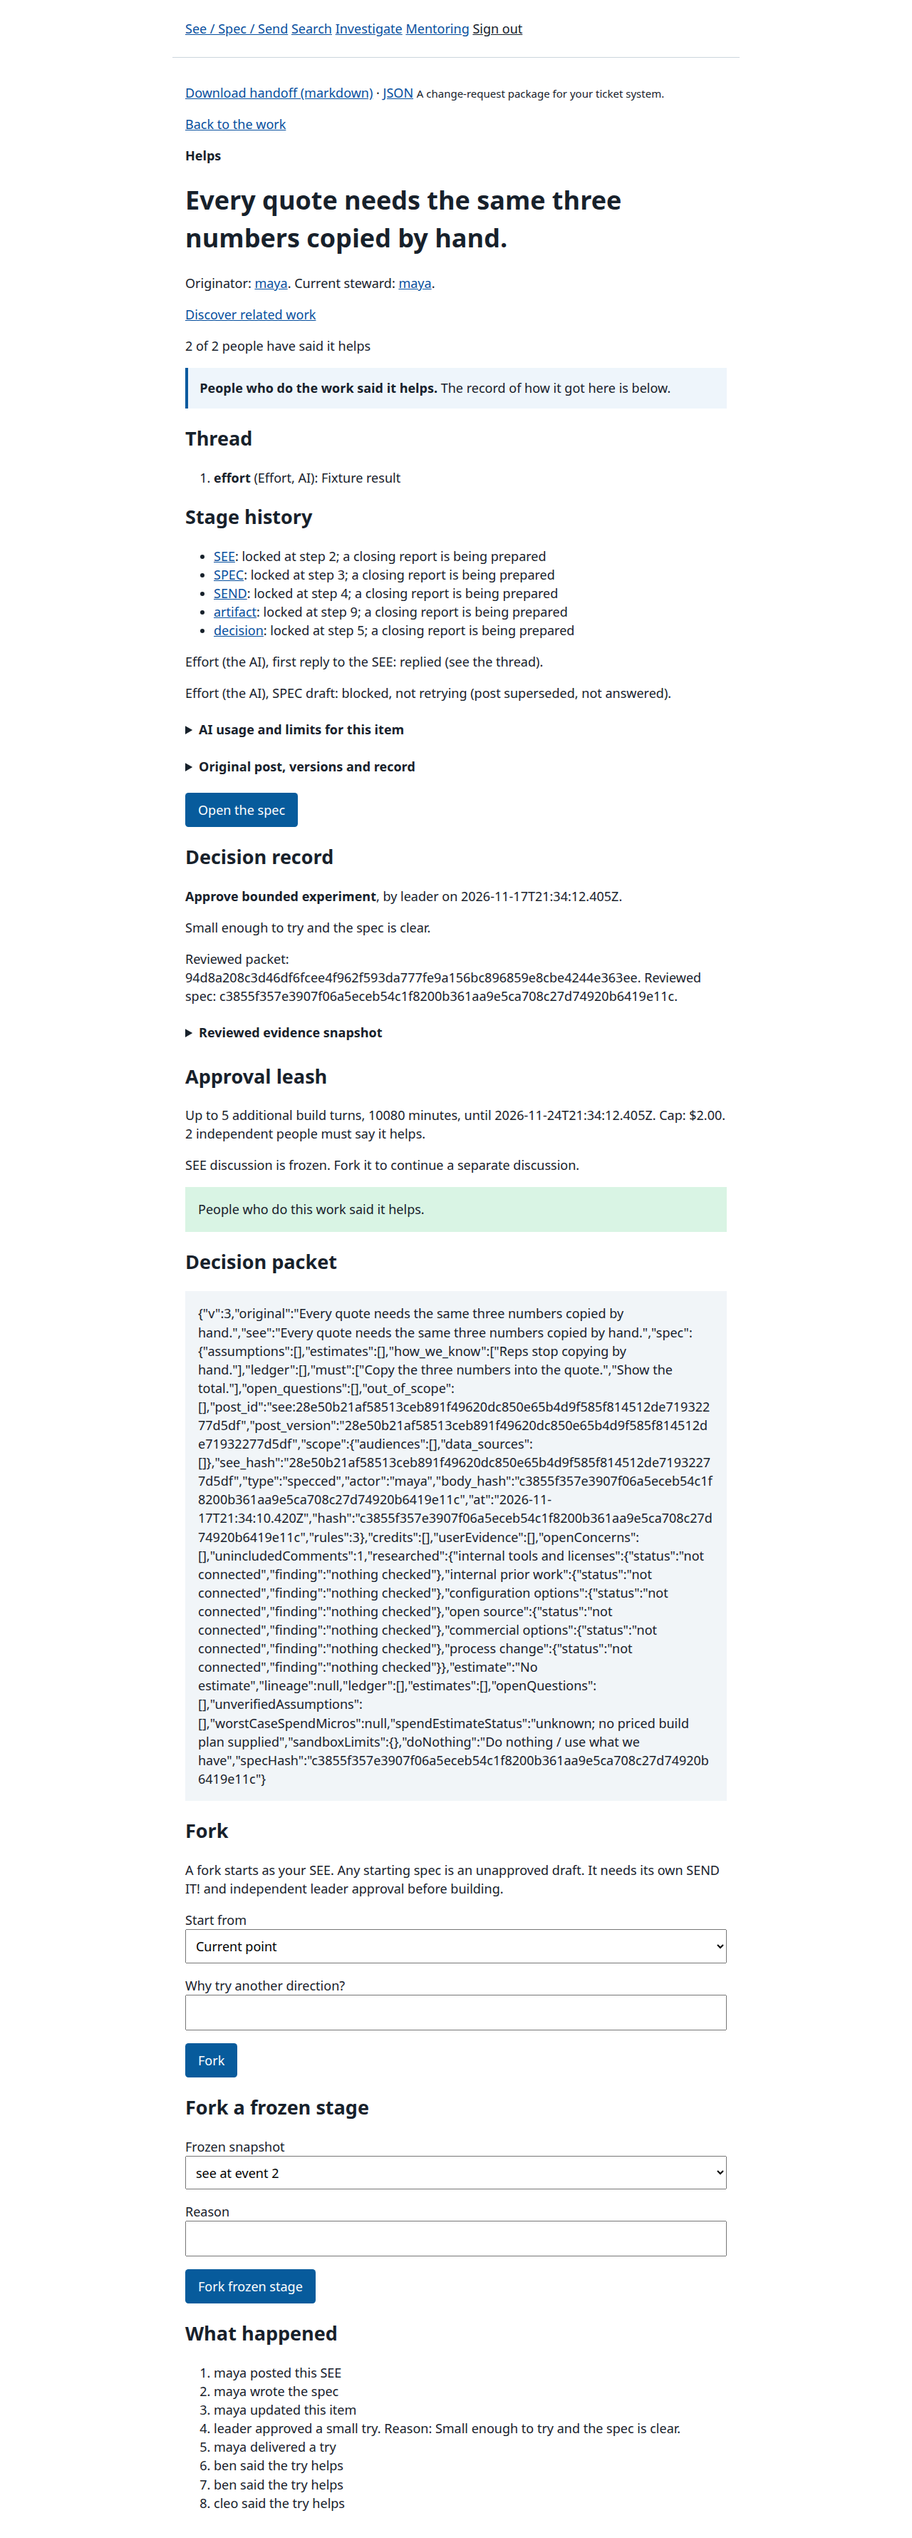
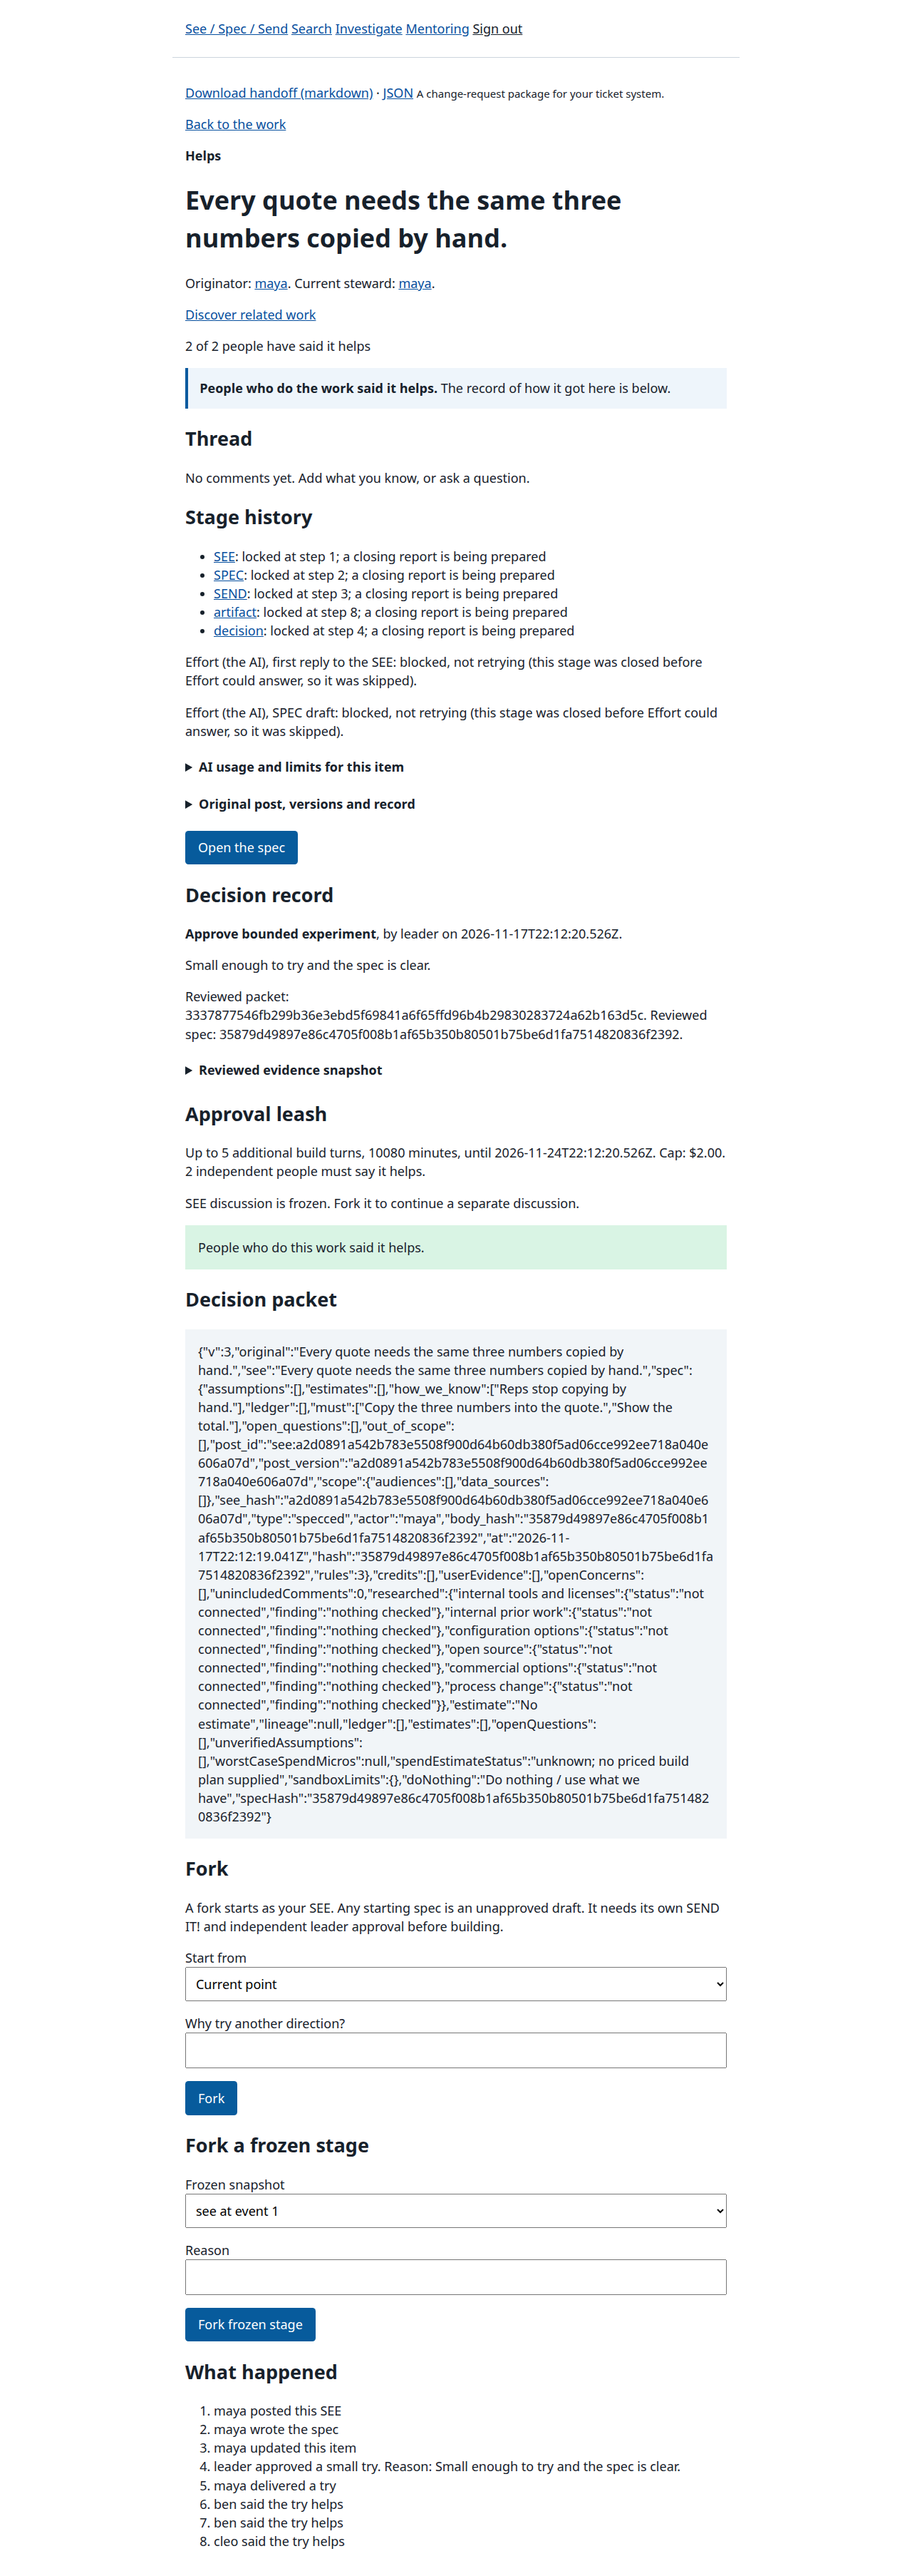
Second break pass: plain Vision Quest messages with no false not-saved alarm, the page says what a leader's decision means, empty decision details hidden, Effort skip in plain words, Sign out and a double-press guard on Mentoring and Investigate; tests, journey and 12 mutants

Changed region(s): [[0.1875, 0.0312, 0.8125, 0.9978], [0.6562, 0.0624, 0.6875, 0.0935], [0.5625, 0.1247, 0.5938, 0.1559]]

diff --git a/app/pages.js b/app/pages.js
@@ -300,7 +300,7 @@ export function itemPage(item, events, person, leader) {
   const instructions = events.filter(event => event.type === 'steered' && event.approval === context.approval)
     .map(event => `<li>${escape(event.instruction)}${event.source ? ` (from ${escape(event.source)})` : ''}</li>`).join('');
   const currentDecisionPacket = context.decided?.packetHash ? item.decisionPackets?.[context.decided.packetHash] : null;
-  const decision = context.decided ? `<section><h2>Decision record</h2><p><strong>${escape(decisionLabels[context.decided.disposition] || context.decided.disposition)}</strong>, by ${escape(context.decided.actor)} on ${escape(context.decided.at)}.</p><p>${escape(context.decided.reason)}</p>${context.decided.reasonCode ? `<p>Reason code: ${escape(context.decided.reasonCode)}</p>` : ''}${context.decided.metadata ? `<h3>Recorded details</h3><pre>${escape(JSON.stringify(context.decided.metadata, null, 2))}</pre>` : ''}${context.decided.evidenceSummary ? `<p>Leader-reported test-ending decision. This isn't an independent HELPS result.</p><p>Observed evidence: ${escape(context.decided.evidenceSummary)}</p><p>Evidence limits: ${escape(context.decided.evidenceLimits)}</p>` : ''}${context.decided.restrictedEvidence ? `<p>${escape(context.decided.restrictedEvidence)}</p>` : ''}${context.decided.pivotNote ? `<p>What changed: ${escape(context.decided.pivotNote)}</p>` : ''}${context.decided.packetHash ? `<p>Reviewed packet: ${escape(context.decided.packetHash)}. Reviewed spec: ${escape(context.decided.specHash)}.</p>` : ''}${context.rules === 3 && context.decided.packetHash ? (currentDecisionPacket ? `<details><summary>Reviewed evidence snapshot</summary><pre>${escape(currentDecisionPacket)}</pre></details>` : '<p>Reviewed evidence snapshot is unavailable.</p>') : ''}</section>` : '';
+  const decision = context.decided ? `<section><h2>Decision record</h2><p><strong>${escape(decisionLabels[context.decided.disposition] || context.decided.disposition)}</strong>, by ${escape(context.decided.actor)} on ${escape(context.decided.at)}.</p><p>${escape(context.decided.reason)}</p>${context.decided.reasonCode ? `<p>Reason code: ${escape(context.decided.reasonCode)}</p>` : ''}${context.decided.metadata && Object.keys(context.decided.metadata).length ? `<h3>Recorded details</h3><pre>${escape(JSON.stringify(context.decided.metadata, null, 2))}</pre>` : ''}${context.decided.evidenceSummary ? `<p>Leader-reported test-ending decision. This isn't an independent HELPS result.</p><p>Observed evidence: ${escape(context.decided.evidenceSummary)}</p><p>Evidence limits: ${escape(context.decided.evidenceLimits)}</p>` : ''}${context.decided.restrictedEvidence ? `<p>${escape(context.decided.restrictedEvidence)}</p>` : ''}${context.decided.pivotNote ? `<p>What changed: ${escape(context.decided.pivotNote)}</p>` : ''}${context.decided.packetHash ? `<p>Reviewed packet: ${escape(context.decided.packetHash)}. Reviewed spec: ${escape(context.decided.specHash)}.</p>` : ''}${context.rules === 3 && context.decided.packetHash ? (currentDecisionPacket ? `<details><summary>Reviewed evidence snapshot</summary><pre>${escape(currentDecisionPacket)}</pre></details>` : '<p>Reviewed evidence snapshot is unavailable.</p>') : ''}</section>` : '';
   const leash = context.leash ? `<section><h2>Approval leash</h2><p>Up to ${escape(context.leash.maxIterations)} additional build turns, ${escape(context.leash.windowMinutes)} minutes${context.leash.expiresAt ? `, until ${escape(context.leash.expiresAt)}` : ''}. Cap: $${escape((context.capMicros / 1_000_000).toFixed(2))}. ${escape(context.quorum)} independent people must say it helps.</p></section>` : '';
   const decisionHistory = events.filter(event => ['approved', 'returned', 'not_built', 'decided', 'experiment_not_helpful', 'op_withdrew'].includes(event.type)
     && !(context.rules === 3 && event.body_hash === context.decided?.bodyHash)).map(event => {
@@ -324,6 +324,21 @@ export function itemPage(item, events, person, leader) {
     if (state === 'SEEN' || state === 'CHECKED') return isSteward
       ? '<p><strong>Next:</strong> let people talk it over in the thread below. When the problem is clear, <a href="#write-spec">write the spec</a>: what a fix has to do, and how you\'ll know it worked.</p>'
       : '<p><strong>Next:</strong> add what you know in the thread below. To ask Effort (the AI) a question, write @effort in your comment.</p>';
+    // A leader has already answered this spec. Say what that answer means, not "press SEND IT!".
+    const answered = state === 'SPECCED' && context.decided && context.decided.specHash === context.specHash ? context.decided.disposition : null;
+    if (answered) {
+      const outcome = {
+        return_for_revision: isSteward
+          ? 'A leader sent this back for changes. Read their reason below, update the spec, then press SEND IT! again.'
+          : 'A leader sent this back for changes. The steward will update the spec and send it again.',
+        defer: 'A leader put this on hold. Their reason, and who looks at it next, are below.',
+        redirect: 'A leader sent this to another team or person. The details are below.',
+        resolve_without_build: 'A leader decided this is solved without building anything new. The reason is below.',
+        decline: 'A leader decided not to build this. The reason is below. If you see it differently, fork it to try another direction.',
+        prohibited: 'This can\'t be done. The reason is below.',
+      }[answered] || 'A leader recorded a decision. The reason is below.';
+      return `<p><strong>Decided.</strong> ${outcome}</p>`;
+    }
     if (state === 'SPECCED') return isSteward
       ? `<p><strong>Your spec is written. Next:</strong> <a href="${specHref}">open it</a> and press SEND IT! so a leader can decide whether to try it.</p>`
       : `<p><strong>A spec has been written.</strong> <a href="${specHref}">Read it</a> and say what you think in the thread. The steward will send it to a leader.</p>`;

diff --git a/app/pages-mentoring.js b/app/pages-mentoring.js
@@ -1,5 +1,5 @@
 const escape = value => String(value ?? '').replace(/[&<>"']/g, char => ({ '&': '&amp;', '<': '&lt;', '>': '&gt;', '"': '&quot;', "'": '&#39;' })[char]);
-const shell = (title, body) => `<!doctype html><html lang="en"><head><meta charset="utf-8"><meta name="viewport" content="width=device-width,initial-scale=1"><title>${escape(title)}</title><link rel="stylesheet" href="/assets/app.css"></head><body><header><a href="/">See / Spec / Send</a> <a href="/search">Search</a> <a href="/intelligence">Investigate</a> <a href="/mentoring">Mentoring</a></header><main>${body}</main><script src="/assets/mentoring.js" defer></script></body></html>`;
+const shell = (title, body) => `<!doctype html><html lang="en"><head><meta charset="utf-8"><meta name="viewport" content="width=device-width,initial-scale=1"><title>${escape(title)}</title><link rel="stylesheet" href="/assets/app.css"></head><body><header><a href="/">See / Spec / Send</a> <a href="/search">Search</a> <a href="/intelligence">Investigate</a> <a href="/mentoring">Mentoring</a> <button type="button" class="linklike" data-signout>Sign out</button></header><main>${body}</main><script src="/assets/mentoring.js" defer></script></body></html>`;
 export function mentoringHome(person, opted, directory, requests) {
  return shell('Optional mentoring', `<h1>Optional private mentoring</h1><p>Mentoring is separate from work decisions. There are no scores, rankings, leader dashboards, or automatic reports. Only participants see requests and check-ins. A host administrator with database access remains outside this application boundary.</p><form data-private-post="/api/mentoring/optin"><input type="hidden" name="enabled" value="${opted ? 'false' : 'true'}"><button>${opted ? 'Opt out and close active mentoring' : 'Opt in to mentoring'}</button></form>${opted ? `<h2>Ask someone who opted in</h2><form data-private-post="/api/mentoring/requests" data-next="request"><label>Person<select name="mentor" required>${directory.filter(row => row.person !== person).map(row => `<option value="${escape(row.person)}">${escape(row.person)}</option>`).join('')}</select></label><label>What would you like to work on?<textarea name="objective" required maxlength="500"></textarea></label><button>Send mentoring request</button></form>` : '<p>You aren&#39;t listed or requestable until you opt in.</p>'}<h2>Your requests</h2>${requests.length ? `<ul>${requests.map(row => `<li><a href="/mentoring/${encodeURIComponent(row.id)}">${escape(row.objective)}</a>, ${escape(row.requester)} with ${escape(row.mentor)}: ${escape(row.status)}.</li>`).join('')}</ul>` : '<p>No requests.</p>'}`);
 }

diff --git a/public/mentoring.js b/public/mentoring.js
@@ -1,7 +1,19 @@
+// Sign out ends the session on the server, then returns to the sign-in page.
+document.addEventListener('click', async event => {
+  if (!event.target.closest?.('[data-signout]')) return;
+  try {
+    const me = await (await fetch('/api/me')).json();
+    await fetch('/api/logout', { method: 'POST', headers: { 'content-type': 'application/json', 'x-csrf-token': me.csrf }, body: '{}' });
+  } catch { /* already signed out: still go to the sign-in page */ }
+  location.href = '/signin';
+});
 document.addEventListener('submit', async event => {
  const form=event.target;if(!form.matches('form[data-private-post]'))return;event.preventDefault();
+ if(form.dataset.busy)return;  // a second click while the first is still going
+ let release=()=>{};
  try {
   const input=Object.fromEntries(new FormData(form));
+  form.dataset.busy='1';const buttons=[...form.querySelectorAll('button')];for(const b of buttons)b.disabled=true;release=()=>{delete form.dataset.busy;for(const b of buttons)b.disabled=false;};
   if(Object.hasOwn(input,'enabled'))input.enabled=input.enabled==='true';
   if(Object.hasOwn(input,'shared_with'))input.shared_with=input.shared_with||null;
   const me=await(await fetch('/api/me')).json();
@@ -11,7 +23,8 @@ document.addEventListener('submit', async event => {
   if(form.dataset.next==='request')location.href=`/mentoring/${encodeURIComponent(out.id)}`;
   else location.reload();
  }catch{
+  release();
   let error=form.querySelector('[role=alert]');if(!error){error=document.createElement('p');error.setAttribute('role','alert');form.append(error);}
-  error.textContent='That did not go through. Check your consent, sharing choice, and request status.';
+  error.textContent='That did not go through. You may have been signed out, or the request may have changed. Reload the page, check your choices, and try again.';
  }
 });

diff --git a/app/pages-intelligence.js b/app/pages-intelligence.js
@@ -1,5 +1,5 @@
 export function intelligencePage() {
-  return `<!doctype html><html lang="en"><head><meta charset="utf-8"><meta name="viewport" content="width=device-width,initial-scale=1"><title>Investigate work patterns</title><link rel="stylesheet" href="/assets/app.css"></head><body><header><a href="/">See / Spec / Send</a> <a href="/search">Search</a> <a href="/mentoring">Mentoring</a></header><main>
+  return `<!doctype html><html lang="en"><head><meta charset="utf-8"><meta name="viewport" content="width=device-width,initial-scale=1"><title>Investigate work patterns</title><link rel="stylesheet" href="/assets/app.css"></head><body><header><a href="/">See / Spec / Send</a> <a href="/search">Search</a> <a href="/mentoring">Mentoring</a> <button type="button" class="linklike" data-signout>Sign out</button></header><main>
   <h1>Investigate work patterns</h1><p class="intro">Use this to ask a question across several problems at once, such as "Where do refund problems keep getting stuck?". You pick the problems to look at, and the answer has to point back to what people actually wrote.</p>
   <p>Two ways to get an answer. <strong>Prepare evidence packet</strong> builds a bundle of the sources for you to paste into an AI you choose, and makes no AI call. <strong>Run with Effort</strong> asks Effort (the AI) here. Unless your administrator has switched on paid AI analysis, Effort only lists the sources and sends nothing to an outside vendor.</p>
   <p>Ask about how work gets done, what was decided, and what evidence is missing. This tool won't rate people, guess at motives or advise on personnel decisions. Treat any AI answer as unchecked text for a person to review.</p>

diff --git a/app/pages-effort.js b/app/pages-effort.js
@@ -1,9 +1,12 @@
 const escape = value => String(value ?? '').replace(/[&<>"']/g, char => ({ '&': '&amp;', '<': '&lt;', '>': '&gt;', '"': '&quot;', "'": '&#39;' })[char]);
 
+// What a person reads in place of a stored reason. Anything not listed is shown as it was recorded.
+const reasons = { 'post superseded, not answered': 'this stage was closed before Effort could answer, so it was skipped' };
+
 export function renderEffortStatus(jobs) {
   const statuses = { queued: 'waiting to start', running: 'thinking', blocked: 'blocked, not retrying', failed: 'unavailable, retries exhausted', done: 'replied (see the thread)' };
   const kinds = { see_first: 'first reply to the SEE', spec_first: 'first reply to the SPEC', spec_draft: 'SPEC draft', tag: 'reply to a mention', spec_prepare: 'SPEC draft' };
   return (jobs || []).map(job => job.state === 'running' && ['provider status/usage unknown; charged hold retained; awaiting reconciliation', 'gateway disabled or stopped; awaiting resume'].includes(job.last_error)
     ? `<p>Effort (the AI), ${escape(kinds[job.kind] || job.kind)}: ${escape(job.last_error)}.</p>`
-    : `<p>Effort (the AI), ${escape(kinds[job.kind] || job.kind)}: ${escape(statuses[job.state] || job.state)}${job.last_error ? ` (${escape(job.last_error)})` : ''}.</p>`).join('') || '<p>Effort is not turned on on this server.</p>';
+    : `<p>Effort (the AI), ${escape(kinds[job.kind] || job.kind)}: ${escape(statuses[job.state] || job.state)}${job.last_error ? ` (${escape(reasons[job.last_error] || job.last_error)})` : ''}.</p>`).join('') || '<p>Effort is not turned on on this server.</p>';
 }

diff --git a/public/quest-ui.js b/public/quest-ui.js
@@ -26,7 +26,16 @@ const node = (tag, text) => {
   if (text !== undefined) element.textContent = text;
   return element;
 };
+// Mistakes a person can fix get a plain sentence and no alarm. Only a real saving problem says "not saved".
+const PLAIN = [
+  [/^Invalid quest turn\./, "Write an answer first. A blank answer can't be saved, and neither can one over the limit."],
+  [/^portable memo is invalid/, "That doesn't look like a memo made from this Quest. Paste the AI's whole reply, starting with the opening curly brace. Nothing was changed."],
+  [/^(Finish and confirm the guide first|Answer the current question first|Confirm the playback first)\./, null],
+];
 function fail(err) {
+  for (const [pattern, plain] of PLAIN) {
+    if (pattern.test(err.message)) { error.textContent = plain ?? err.message; return; }
+  }
   error.textContent = `${err.message} Keep this tab open and export your draft if possible.`;
   status.textContent = 'Not saved. Your current input is still in this tab.';
 }

diff --git a/public/intelligence.js b/public/intelligence.js
@@ -1,4 +1,14 @@
 let currentPackage = null;
+// Sign out ends the session on the server, then returns to the sign-in page.
+document.addEventListener('click', async event => {
+  if (!event.target.closest?.('[data-signout]')) return;
+  try {
+    const me = await (await fetch('/api/me')).json();
+    await fetch('/api/logout', { method: 'POST', headers: { 'content-type': 'application/json', 'x-csrf-token': me.csrf }, body: '{}' });
+  } catch { /* already signed out: still go to the sign-in page */ }
+  location.href = '/signin';
+});
+
 // A pasted page address or a bare code both work.
 const itemCode = line => { const m = /\/items\/([^/?#\s]+)/.exec(line); return m ? decodeURIComponent(m[1]) : line; };
 const lines = value => String(value || '').split('\n').map(line => line.trim()).filter(Boolean);

diff --git a/docs/UI_WALKTHROUGH.md b/docs/UI_WALKTHROUGH.md
@@ -47,4 +47,17 @@ The last two rows were not UI polish. Sign-out was missing, and the administrati
 
 Pinned by `test/break-it.test.mjs`, `test/e2e/break-it.e2e.mjs` (also in CI) and 14 mutants.
 
+### Second round: Vision Quest, the leader's decisions, Mentoring
+
+| What I did | What happened | Fixed |
+| --- | --- | --- |
+| Answered a Vision Quest question with spaces | "Invalid quest turn. Keep this tab open and export your draft if possible." | "Write an answer first." No false alarm about losing a draft |
+| Pasted a bad memo, or exported the portable prompt too early | The same "export your draft" warning, and a status line saying "Not saved" when nothing was being saved | A plain sentence for each. Only a real saving problem says "not saved". |
+| Declined a spec as a leader, then opened it as the author | The page said "Your spec is written. Next: press SEND IT!" directly above "Decision record: Decline" | Says what the answer means: sent back (revise and resend), on hold, redirected, solved without building, declined (fork if you disagree), or can't be done |
+| Looked at that decision record | An empty block of `{}` under "Recorded details" | Hidden when there is nothing in it |
+| Read Effort's status after the stage closed | "blocked, not retrying (post superseded, not answered)" | "this stage was closed before Effort could answer, so it was skipped" |
+| Opened Mentoring or Investigate, signed in | No way to sign out from either page, and no guard against pressing a mentoring button twice | Both have a Sign out button. Mentoring ignores a second press. |
+
+I also tried the approval form with a negative cap, zero people, decimals, 99 build turns and a zero-minute window. The browser's own checks stop all of those. One thing is open, though: a leader can approve a cap of $999,999,999 with nothing asking "are you sure?". It is only an upper limit, and the gateway's daily caps still apply, so it can't spend that. But a typo with extra zeros goes through silently, and that probably deserves a confirmation or a sane ceiling. That one is your call.
+
 **Not checked:** a screen reader, a very slow connection, a browser other than Chrome, and anything that needs a real identity provider.
